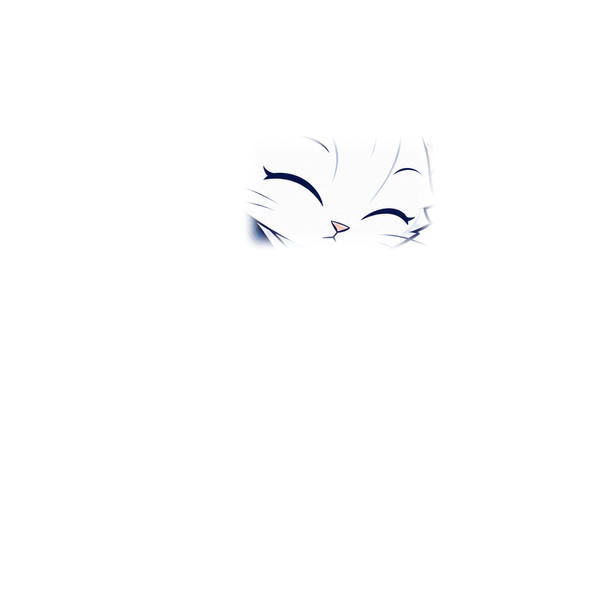
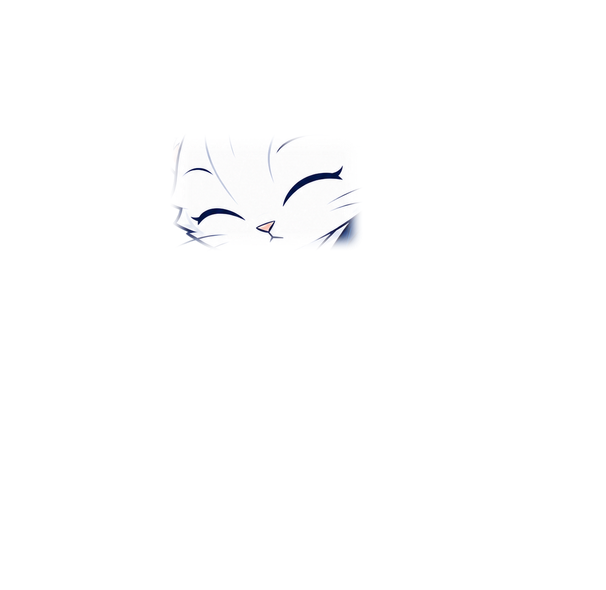
Кади смотрит на текст, а не за край блока
Замечание владельца: в поиске без результатов кот смотрел вправо, мимо текста, и выглядел
лишним. Позы с лупой, коробкой и чертежом отражены (смотрят влево), надпись на жилете
перенесена незеркальной. Кади везде справа от текста, на телефоне — над текстом у правого
края; фильтр каталога без товаров выстроен так же, как пустой поиск.

Claude-Session: https://claude.ai/code/session_01BUDbR9m6TXo6sYYAvn9UVP

diff --git a/src/components/CatalogFilter/CatalogFilter.module.css b/src/components/CatalogFilter/CatalogFilter.module.css
@@ -37,16 +37,40 @@
   list-style: none;
 }
 
+/* Как пустой поиск: телефон — Кади над текстом у правого края, смотрит влево на текст;
+   от 640 px текст и кнопка слева, Кади справа. */
 .empty {
   display: flex;
-  flex-direction: column;
-  align-items: center;
+  flex-direction: column-reverse;
+  align-items: flex-start;
   gap: var(--space-4);
-  padding: var(--space-12) var(--space-4);
+  padding: var(--space-8) var(--space-6);
   border: 1px dashed var(--color-border);
   border-radius: var(--radius-lg);
   color: var(--color-text-muted);
-  text-align: center;
+}
+
+.emptyBody {
+  display: flex;
+  flex-direction: column;
+  align-items: flex-start;
+  gap: var(--space-4);
+}
+
+.mascot {
+  align-self: flex-end;
+}
+
+@media (min-width: 640px) {
+  .empty {
+    flex-direction: row;
+    align-items: center;
+    justify-content: space-between;
+  }
+
+  .mascot {
+    align-self: auto;
+  }
 }
 
 .drawerFoot {

diff --git a/src/components/Mascot/Mascot.tsx b/src/components/Mascot/Mascot.tsx
@@ -44,7 +44,8 @@ type Props = {
 /**
  * Кади — персонаж CAD.kz для пустых состояний и будущего ИИ-консультанта.
  * Картинка декоративная: смысл несут заголовок и текст рядом, скринридер её пропускает.
- * Появляется один раз, моргает после появления и при наведении; при prefers-reduced-motion — без движения.
+ * Появляется один раз, моргает раз в несколько секунд и при наведении; при prefers-reduced-motion — без движения.
+ * Стоит справа от текста и смотрит влево, на текст и кнопки (позы search, empty-cart, not-found отражены).
  */
 export function Mascot({ pose, size = 'md', eager = false, className }: Props) {
   const { src, blink } = POSES[pose]

diff --git a/src/components/SearchResults/SearchResults.module.css b/src/components/SearchResults/SearchResults.module.css
@@ -16,7 +16,7 @@
   list-style: none;
 }
 
-/* Телефон: Кади над текстом. От 640 px: текст слева, Кади справа. */
+/* Телефон: Кади над текстом у правого края — смотрит влево, на текст. От 640 px: текст слева, Кади справа. */
 .empty {
   display: flex;
   flex-direction: column-reverse;
@@ -26,6 +26,10 @@
   padding: var(--space-8) var(--space-6);
   border: 1px dashed var(--color-border);
   border-radius: var(--radius-lg);
+}
+
+.mascot {
+  align-self: flex-end;
 }
 
 .emptyBody {
@@ -40,6 +44,10 @@
     flex-direction: row;
     align-items: center;
     justify-content: space-between;
+  }
+
+  .mascot {
+    align-self: auto;
   }
 }
 

diff --git a/src/components/CatalogFilter/CatalogFilter.tsx b/src/components/CatalogFilter/CatalogFilter.tsx
@@ -92,9 +92,11 @@ export function CatalogFilter({ items, facets, lines, initial }: Props) {
           </ul>
         ) : (
           <div className={styles.empty}>
-            <Mascot pose="search" size="sm" />
-            <p>По выбранным условиям товаров нет.</p>
-            <Button onClick={reset}>Сбросить фильтр</Button>
+            <div className={styles.emptyBody}>
+              <p>По выбранным условиям товаров нет.</p>
+              <Button onClick={reset}>Сбросить фильтр</Button>
+            </div>
+            <Mascot pose="search" size="sm" className={styles.mascot} />
           </div>
         )}
         {!groups && (

diff --git a/src/components/EmptyCart/EmptyCart.module.css b/src/components/EmptyCart/EmptyCart.module.css
@@ -1,4 +1,4 @@
-/* Телефон: Кади над текстом. От 640 px: текст слева, Кади справа. */
+/* Телефон: Кади над текстом у правого края — смотрит влево, на текст. От 640 px: текст слева, Кади справа. */
 .empty {
   display: flex;
   flex-direction: column-reverse;
@@ -7,6 +7,10 @@
   padding: var(--space-10);
   border-radius: var(--radius-lg);
   background: var(--color-blue-soft);
+}
+
+.mascot {
+  align-self: flex-end;
 }
 
 .text {
@@ -32,5 +36,9 @@
     flex-direction: row;
     align-items: center;
     justify-content: space-between;
+  }
+
+  .mascot {
+    align-self: auto;
   }
 }

diff --git a/src/components/NotFoundView/NotFoundView.module.css b/src/components/NotFoundView/NotFoundView.module.css
@@ -1,4 +1,4 @@
-/* Телефон: Кади над текстом. От 960 px: текст на 7 колонок, Кади на 5 справа. */
+/* Телефон: Кади над текстом у правого края. От 960 px: текст на 7 колонок, Кади на 5 справа. */
 .layout {
   display: grid;
   grid-template-columns: repeat(var(--grid-columns), minmax(0, 1fr));
@@ -14,7 +14,7 @@
 .mascot {
   grid-column: span 12;
   grid-row: 1;
-  justify-self: start;
+  justify-self: end; /* Кади смотрит влево — на текст под ним */
 }
 
 .actions {

diff --git a/src/components/EmptyCart/EmptyCart.tsx b/src/components/EmptyCart/EmptyCart.tsx
@@ -41,7 +41,11 @@ export function EmptyCart({ loading = false, whatsappHref = null }: Props) {
         </div>
       </div>
       {/* key: после загрузки Кади появляется заново, а не остаётся невидимым с отыгранной анимацией. */}
-      <Mascot key={loading ? 'loading' : 'ready'} pose="empty-cart" className={reserve} />
+      <Mascot
+        key={loading ? 'loading' : 'ready'}
+        pose="empty-cart"
+        className={reserve ? `${styles.mascot} ${reserve}` : styles.mascot}
+      />
     </div>
   )
 }

diff --git a/src/components/SearchResults/SearchResults.tsx b/src/components/SearchResults/SearchResults.tsx
@@ -49,7 +49,7 @@ export function SearchResults({ query, items, partial = false, whatsappHref }: P
             </Link>
           </div>
         </div>
-        <Mascot pose="search" />
+        <Mascot pose="search" className={styles.mascot} />
       </div>
     )
   }

diff --git a/docs/DESIGN.md b/docs/DESIGN.md
@@ -116,7 +116,7 @@
 - Логотипы вендоров — SVG от правообладателя.
 - **Фото, иллюстрации, баннеры** можно генерировать в ChatGPT. Требования к исходнику: PNG или JPG не меньше 2× от размера показа, без текста на картинке (текст верстаем), в фирменной гамме navy/blue/sky. Файл кладём в `public/images/<раздел>/<что-на-картинке>.png` латиницей через дефис, в коде выводим через `next/image`, который сам отдаёт AVIF/WebP.
 - Контентные картинки (новости, товары) загружает маркетолог через админку в Медиа, с обязательным описанием (alt).
-- **Кади — персонаж сайта (12.10.2026).** Белый кот в тёмно-синем жилете, только компонент `Mascot` (`src/components/Mascot`). Где: 404 (`not-found`, с чертежом; `--mascot-lg` 240 px от 960 px справа на 5 колонок, на телефоне `--mascot-md` 160 px над текстом), пустая корзина и поиск без результатов (`empty-cart`, `search`; `--mascot-md` справа от текста, на телефоне над ним), фильтр каталога без товаров (`search`, `--mascot-sm` 120 px над текстом). Готовы, но не выводятся: `neutral`, `greeting`, `success` (экран после заявки — когда заявки пойдут в Битрикс24; при демо-сообщении «не передаётся» довольного кота нет) и голова `head` (`--icon-box` 40 px, `--mascot-avatar` 64 px; заготовка шапки чата `AssistantHeader`). Где Кади нет и не будет: товарные карточки, цены, характеристики, лицензии, навигация, логотип, всплывающие окна без действия человека, прелоадер. Картинка декоративная (`alt=""`, `aria-hidden`), смысл несёт текст рядом. Движение: появление один раз (`--duration-base`, подъём на 8 px), моргание впервые через `--delay-blink` 1200 мс, затем раз в `--period-blink` 3200 мс (решение владельца 12.10.2026: одного раза мало) и дополнительно при наведении (`--duration-blink` 180 мс), наведение — наклон на 2° и подъём на 4 px; при `prefers-reduced-motion` неподвижен. Файлы: `public/images/mascot/kadi-<поза>.png` и `kadi-<поза>-blink.png` — слой того же размера, где видны только закрытые глаза. Исходники из ChatGPT 1254 × 1254 с прозрачным фоном, пары «глаза открыты / закрыты» одной картинкой; обработка: убрать мелкий мусор, обрезать по фигуре с полем 12 px, уменьшить вдвое, слой глаз — из картинки с закрытыми глазами по прямоугольнику глаз с растушёвкой 10 px. Новая поза — тем же промптом с листом-референсом, надпись на жилете `cad.kz` как в логотипе.
+- **Кади — персонаж сайта (12.10.2026).** Белый кот в тёмно-синем жилете, только компонент `Mascot` (`src/components/Mascot`). Где: 404 (`not-found`, с чертежом; `--mascot-lg` 240 px от 960 px справа на 5 колонок, на телефоне `--mascot-md` 160 px над текстом), пустая корзина и поиск без результатов (`empty-cart`, `search`; `--mascot-md` справа от текста, на телефоне над ним), фильтр каталога без товаров (`search`, `--mascot-sm` 120 px справа от текста, на телефоне над ним у правого края). Готовы, но не выводятся: `neutral`, `greeting`, `success` (экран после заявки — когда заявки пойдут в Битрикс24; при демо-сообщении «не передаётся» довольного кота нет) и голова `head` (`--icon-box` 40 px, `--mascot-avatar` 64 px; заготовка шапки чата `AssistantHeader`). Где Кади нет и не будет: товарные карточки, цены, характеристики, лицензии, навигация, логотип, всплывающие окна без действия человека, прелоадер. Кади всегда смотрит на содержимое, а не за край блока (замечание владельца 12.10.2026): он стоит справа от текста (на телефоне — над текстом у правого края), поэтому позы `search`, `empty-cart`, `not-found` отражены и смотрят влево; надпись на жилете при отражении перенесена незеркальной. Новую позу для места справа генерировать сразу смотрящей влево. Картинка декоративная (`alt=""`, `aria-hidden`), смысл несёт текст рядом. Движение: появление один раз (`--duration-base`, подъём на 8 px), моргание впервые через `--delay-blink` 1200 мс, затем раз в `--period-blink` 3200 мс (решение владельца 12.10.2026: одного раза мало) и дополнительно при наведении (`--duration-blink` 180 мс), наведение — наклон на 2° и подъём на 4 px; при `prefers-reduced-motion` неподвижен. Файлы: `public/images/mascot/kadi-<поза>.png` и `kadi-<поза>-blink.png` — слой того же размера, где видны только закрытые глаза. Исходники из ChatGPT 1254 × 1254 с прозрачным фоном, пары «глаза открыты / закрыты» одной картинкой; обработка: убрать мелкий мусор, обрезать по фигуре с полем 12 px, уменьшить вдвое, слой глаз — из картинки с закрытыми глазами по прямоугольнику глаз с растушёвкой 10 px. Новая поза — тем же промптом с листом-референсом, надпись на жилете `cad.kz` как в логотипе.
 - **Картинки товаров** вписываются целиком (`object-fit: contain`) на светлую подложку `--color-surface`: в карточке каталога рамка `--ratio-card` 16:10, на странице товара главная картинка `--ratio-media` 16:9 на 8 колонок, под ней миниатюры `--thumb-size` 64 px, если картинок несколько. Нет своей галереи — показывается «Картинка для товаров без своей» у производителя; нет и её — в карточке подложка со значком раздела, на странице товара блока картинки нет.
 
 ## Состояния и доступность

diff --git a/docs/HANDOFF.md b/docs/HANDOFF.md
@@ -402,6 +402,7 @@ ChatGPT в режиме агента прошёл часть сценариев 
 - Встроен: 404 (тексты по ТЗ, кнопки «В каталог», «На главную», ссылка «Контакты»), пустая корзина и оформление («Корзина пока пустая», WhatsApp «Помочь с выбором» оставлен), поиск без результатов («Ничего не найдено», запрос в тексте, WhatsApp и каталог), фильтр каталога без товаров (Кади и основная кнопка «Сбросить фильтр»).
 - Проверено локально (демоданные, боевая сборка): 1440/1200/960/640/390 — прокрутки вбок нет, Кади не перекрывает кнопки, CLS 0, при reduced-motion неподвижен. Отдаётся WebP 16–53 КБ.
 - 12.10, вечер: владелец не увидел Кади на демо — сборка Vercel для `aef4c11` упала (`a7a7649` пропущена), на демо оставалась версия `551767f`. Локально `vercel-build` с `DEMO_AUTO_SETUP=yes` проходит и на пустой, и на заполненной базе, миграций в коммите нет — разовый сбой Vercel; пересборка запущена новым коммитом. Проверять статус сборки: `gh api repos/Cadkz/cad.kz/commits/<sha>/status`.
+- 12.10, вечер: замечание владельца — Кади смотрел за край блока. Позы `search`, `empty-cart`, `not-found` отражены (смотрят влево, надпись на жилете перенесена незеркальной), Кади везде справа от текста, на телефоне над текстом у правого края; фильтр каталога без товаров переделан так же (было по центру). Моргание раз в 3,2 с. Браузер Playwright в этой среде не скачался — вёрстку на 390/1440 проверить на демо.
 - Не сделано, ждёт решения владельца: довольный Кади после заявки — при запуске (сейчас демо-сообщение); на трёх позах надпись на жилете `CAD.kz`, на остальных `cad.kz` как в логотипе — по желанию перегенерировать neutral, search, greeting; хвост отдельным слоем не вырезали; помощник-«скрепка» в поиске (идея 10.10) противоречит ТЗ — не делаем, если владелец не вернётся к ней.
 
 ## Следующий шаг
